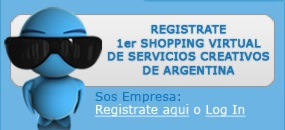
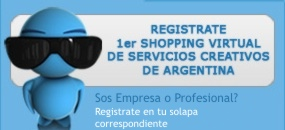
maquetacion continuada del index...

Changed region(s): [[0.3368, 0.7077, 0.8702, 0.9846]]

diff --git a/bubbles/varios.css b/bubbles/varios.css
@@ -144,7 +144,7 @@ height: 80px;
 background-image: url(imagenes/solapa-lateral.png);
 background-repeat: no-repeat;
 }
-.solapa-empresa{
+.casilla-superior .solapa-empresa{
 float: left;
 width: 94px;
 height: 80px;
@@ -825,7 +825,13 @@ float: left;
 overflow: hidden;
 width: 287px;
 }
-.form-registrarse-usuarios{
+.col-registrarse h2{
+color: #ffffff;
+text-align: center;
+float: none;
+padding-top: 5px;
+}
+.form-registrarse-usuarios, .form-registrarse-empresas{
 border: 1px solid #000000;
 float: left;
 overflow: hidden;
@@ -833,12 +839,14 @@ height: 356px;
 width: 285px;
 }
 .form-registrarse-usuarios .superior, .form-registrarse-usuarios .medio,
-.form-registrarse-usuarios .formulario, .form-registrarse-usuarios .inferior{
+.form-registrarse-usuarios .formulario, .form-registrarse-usuarios .inferior,
+.form-registrarse-empresas .superior, .form-registrarse-empresas .medio,
+.form-registrarse-empresas .formulario, .form-registrarse-empresas .inferior{
 float: left;
 overflow: hidden;
 width: 285px;
 }
-.form-registrarse-usuarios .superior{
+.form-registrarse-usuarios .superior, .form-registrarse-empresas .superior{
 height: 39px;
 }
 .form-registrarse-usuarios .inferior{
@@ -846,7 +854,12 @@ height: 20px;
 background-image: url(imagenes/inferior-reg-usuarios.png);
 background-repeat: no-repeat;
 }
-.form-registrarse-usuarios .solapa-empresas{
+.form-registrarse-empresas .inferior{
+height: 20px;
+background-image: url(imagenes/inferior-reg-empresas.png);
+background-repeat: no-repeat;
+}
+.form-registrarse-usuarios .solapa-empresas, .form-registrarse-empresas .solapa-empresas{
 float: left;
 overflow: hidden;
 width: 141px;
@@ -855,7 +868,7 @@ background-image: url(imagenes/solapa-reg-empresas.png);
 background-repeat: no-repeat;
 }
 
-.form-registrarse-usuarios .solapa-usuarios{
+.form-registrarse-usuarios .solapa-usuarios, .form-registrarse-empresas .solapa-usuarios{
 float: left;
 overflow: hidden;
 width: 144px;
@@ -868,10 +881,22 @@ height: 130px;
 background-image: url(imagenes/arte-reg-profesionales.jpg);
 background-repeat: no-repeat;
 }
+.form-registrarse-empresas .medio{
+height: 130px;
+background-image: url(imagenes/arte-reg-empresas.png);
+background-repeat: no-repeat;
+}
 .form-registrarse-usuarios .formulario{
 height: 178px;
 width: 283px;
 background-color: #6cb4e4;
+border-left: 1px solid #46a1d6;
+border-right: 1px solid #46a1d6;
+}
+.form-registrarse-empresas .formulario{
+height: 178px;
+width: 283px;
+background-color: #c4c5c9;
 border-left: 1px solid #46a1d6;
 border-right: 1px solid #46a1d6;
 }

diff --git a/bubbles/formularios-registro.css b/bubbles/formularios-registro.css
@@ -28,7 +28,7 @@ margin: 0;
 height: 20px;
 }
 .tabla-registrar .boton1{
-width: 70px;
+/*width: 70px;*/
 text-align: center;
 color #ffffff;
 }
@@ -84,14 +84,14 @@ height: 26px;
 margin-left: 63px;
 }
 .registrar-empresa .solapa-empresa{
-background-image: url('imagenes/solapa-reg-empresa.png');
-background-repeat: no-repeat;
+/*background-image: url('imagenes/solapa-reg-empresa.png');
+background-repeat: no-repeat;*/
 width: 121px;
 margin-top: 2px;
 }
 .registrar-empresa .solapa-profesional{
-background-image: url('imagenes/solapa-reg-profesional.png');
-background-repeat: no-repeat;
+/*background-image: url('imagenes/solapa-reg-profesional.png');
+background-repeat: no-repeat;*/
 width: 123px;
 margin-top: 2px;
 }

diff --git a/bubbles/contenido/form-registrarse-empresa.php b/bubbles/contenido/form-registrarse-empresa.php
@@ -1,10 +1,10 @@
-<div class="form-registrarse-usuarios">
+<div class="form-registrarse-empresas">
 	<div class="superior">
 		<div class="solapa-usuarios">
-		<a href="<?php echo $_SERVER['PHP_SELF'] . '?solapa_reg=usuario'?>" ><p>Profesionales</p></a>
+		<a href="<?php echo $_SERVER['PHP_SELF'] . '?solapa_reg=usuario'?>" ><h2>Profesionales</h2></a>
 		</div>
 		<div class="solapa-empresas">
-		<a href="<?php echo $_SERVER['PHP_SELF'] . '?solapa_reg=empresa'?>" ><p>Empresas</p></a>
+		<a href="<?php echo $_SERVER['PHP_SELF'] . '?solapa_reg=empresa'?>" ><h2>Empresas</h2></a>
 		</div>
 	</div>
 	<div class="medio">

diff --git a/bubbles/contenido/form-registrarse-usuario.php b/bubbles/contenido/form-registrarse-usuario.php
@@ -1,10 +1,10 @@
 <div class="form-registrarse-usuarios">
 	<div class="superior">
 		<div class="solapa-usuarios">
-		<a href="<?php echo $_SERVER['PHP_SELF'] . '?solapa_reg=usuario'?>" ><p>Profesionales</p></a>
+		<a href="<?php echo $_SERVER['PHP_SELF'] . '?solapa_reg=usuario'?>" ><h2>Profesionales</h2></a>
 		</div>
 		<div class="solapa-empresas">
-		<a href="<?php echo $_SERVER['PHP_SELF'] . '?solapa_reg=empresa'?>" ><p>Empresas</p></a>
+		<a href="<?php echo $_SERVER['PHP_SELF'] . '?solapa_reg=empresa'?>" ><h2>Empresas</h2></a>
 		</div>
 	</div>
 	<div class="medio">
